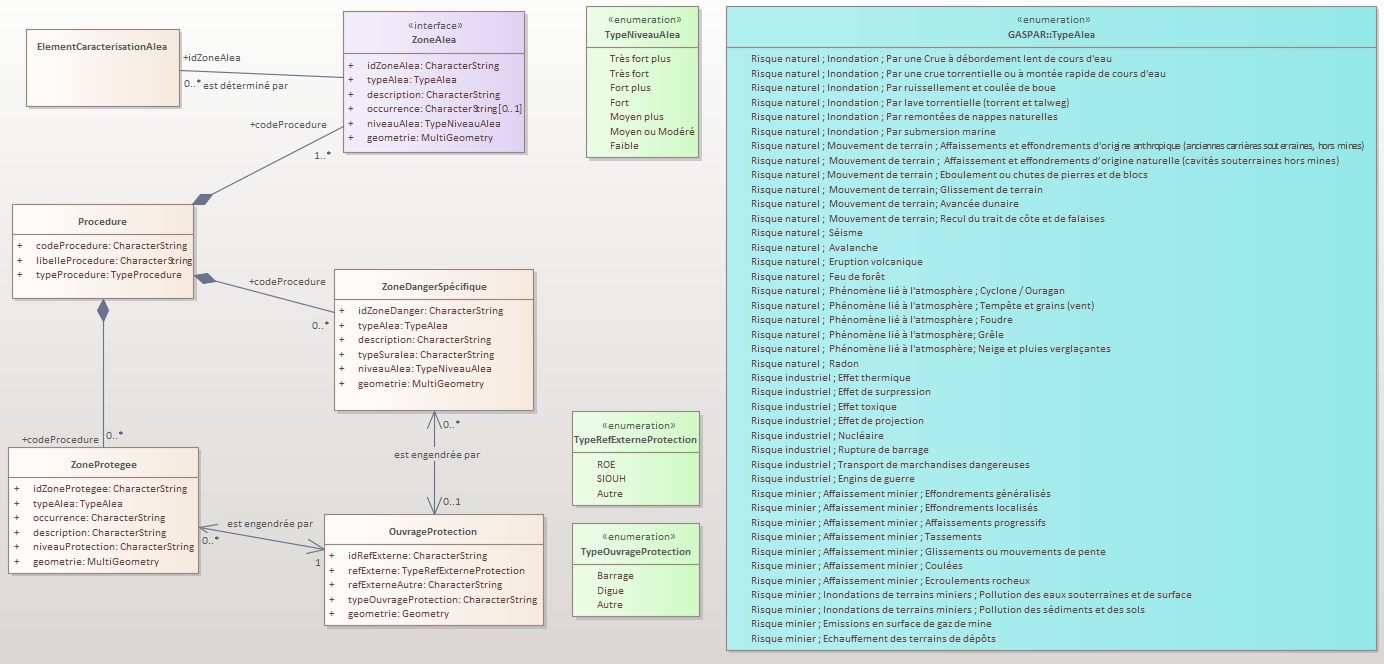
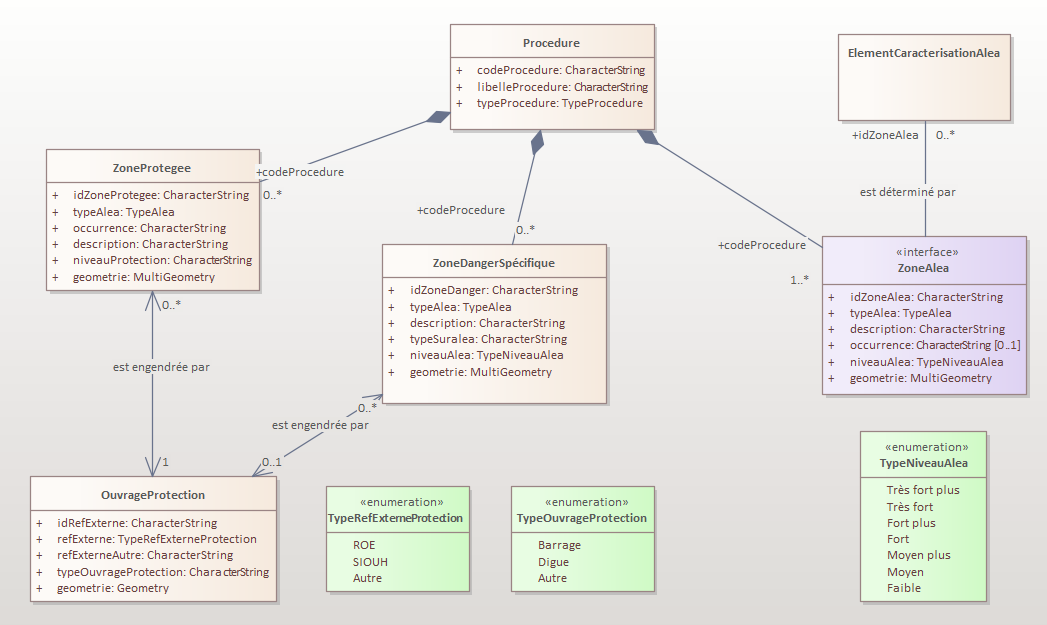
Modifications schémas UML modèle commun

diff --git a/standards/Geostandards-risques-commun/Document.md b/standards/Geostandards-risques-commun/Document.md
@@ -267,9 +267,10 @@ Les données décrites dans le cadre de ce standard se répartissent dans cinq g
 
 Selon les procédures et les profils applicatifs associés, ces thématiques ne sont pas toujours toutes implémentées.
 
-Le schéma suivant représente les liens entre chacune de ces thématiques. Les liens en pointillés illustrent pour information une relation de cause à effet entre deux thématiques mais ne sont pas implémentées dans le modèle qui suit.
+Le schéma suivant représente le schéma UML complet des classes décrites par ce modèle commun avec leur répartition par thématiques. Pour plus de lisibilité, les classes décrivant des énumérations ou des types de données n'ont pas été représentées. Elles le seront dans les schémas détaillés par thématiques qui suivront.
 
-**Fig. *xx* Relations entre les différentes thématiques.**
+
+**Fig. *xx* Diagramme UML complet des différentes thématiques.**
 
 ![Schéma relations thématiques](./ressources/Schema-thematiques.png)
 
@@ -319,10 +320,16 @@ Les ouvrages de protection sont déjà décrits dans d'autres référentiels plu
 
 Les zones d'aléas sont déterminées à partir d'éléments techniques, spécifiques aux types d'aléas décrits, par exemple les zones d'iso classe de hauteur d'eau permettant de déterminer les surfaces inondables pour les territoires à risque important d'inondation. Ce standard ne définit pas spécifiquement chacun de ces éléments mais propose une classe générique [ElementCaracterisationAlea](#classe-dobjets-elementcaracterisationalea) qui pourra être spécialisée au besoin selon les profils applicatifs de façon à rattacher ces éléments aux zones d'aléas qu'ils permettent de déterminer et catactériser leur intensité et leur probabilité. 
 
+Les deux figures suivantes montrent le Modèle UML des classes relatives aux aleéas et la classe d'énumération des Types d'aléas issus de GASPAR.
 
 **Fig. *xx* Modèle UML des classes relatives aux aléas.**
 
 ![Modele UML Aléas](./ressources/UML-Procedure-Alea.png)
+
+
+**Fig. *xx* Modèle UML de l'énumération TypeAlea**
+
+![Modele UML Aléas](./ressources/UML-GASPAR-TypeAlea.png)
 
 
 
